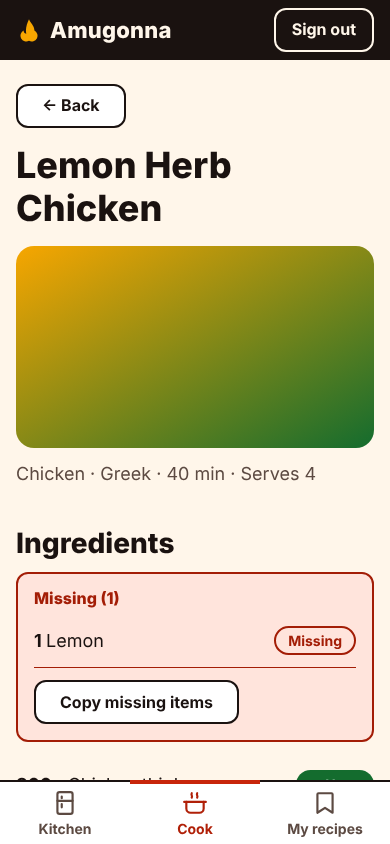
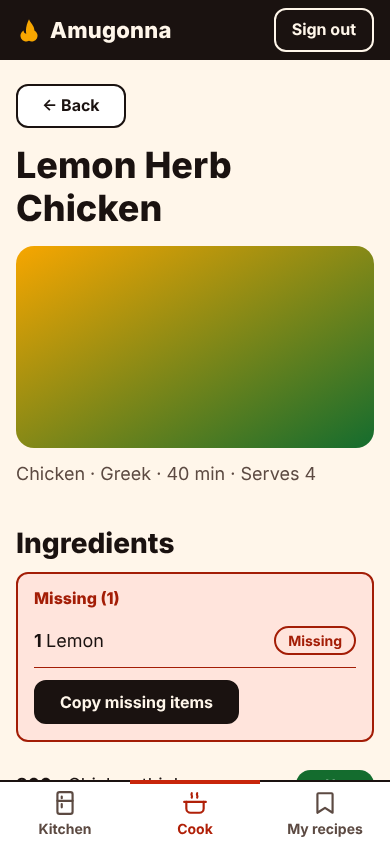
Cook: compact phone cards, scroll handling, wake lock re-acquire, inline copy confirmation

Changed region(s): [[0.0923, 0.8009, 0.6154, 0.8626]]

diff --git a/client/src/components/cook/RecipeView.tsx b/client/src/components/cook/RecipeView.tsx
@@ -44,7 +44,7 @@ const RecipeView: React.FC<Props> = ({ recipeId, onBack }) => {
   const [error, setError] = useState<string | null>(null);
   const [attempt, setAttempt] = useState(0);
   const [done, setDone] = useState<Set<number>>(new Set());
-  const [toast, setToast] = useState<string | null>(null);
+  const [copyLabel, setCopyLabel] = useState<string | null>(null);
 
   useEffect(() => {
     let cancelled = false;
@@ -60,29 +60,37 @@ const RecipeView: React.FC<Props> = ({ recipeId, onBack }) => {
   }, [recipeId, attempt]);
 
   // Keep the screen awake while cooking; silently skip when unsupported.
+  // Browsers drop the lock when the tab is hidden, so re-acquire on return.
   useEffect(() => {
     let sentinel: WakeLockSentinelLike | null = null;
     let closed = false;
     const wl = (navigator as NavWithWakeLock).wakeLock;
-    if (wl) {
+    if (!wl) return;
+    const acquire = () => {
       wl.request('screen')
         .then((s) => {
           if (closed) void s.release();
           else sentinel = s;
         })
         .catch(() => {});
-    }
+    };
+    const onVisible = () => {
+      if (document.visibilityState === 'visible' && !closed) acquire();
+    };
+    acquire();
+    document.addEventListener('visibilitychange', onVisible);
     return () => {
       closed = true;
-      if (sentinel) void sentinel.release().catch(() => {});
+      document.removeEventListener('visibilitychange', onVisible);
+      if (sentinel) void Promise.resolve(sentinel.release()).catch(() => {});
     };
   }, []);
 
   useEffect(() => {
-    if (!toast) return;
-    const t = setTimeout(() => setToast(null), 2000);
+    if (!copyLabel) return;
+    const t = setTimeout(() => setCopyLabel(null), 2000);
     return () => clearTimeout(t);
-  }, [toast]);
+  }, [copyLabel]);
 
   const back = (
     <button type="button" className="btn btn-secondary cook-back" onClick={onBack}>
@@ -134,9 +142,9 @@ const RecipeView: React.FC<Props> = ({ recipeId, onBack }) => {
   const copyMissing = async () => {
     try {
       await navigator.clipboard.writeText(missing.map((m) => m.name).join('\n'));
-      setToast('Copied');
+      setCopyLabel('Copied ✓');
     } catch {
-      setToast("Couldn't copy");
+      setCopyLabel("Couldn't copy");
     }
   };
 
@@ -174,8 +182,8 @@ const RecipeView: React.FC<Props> = ({ recipeId, onBack }) => {
                   <IngredientRow key={i.canonical + i.name} ing={i} />
                 ))}
               </ul>
-              <button type="button" className="btn btn-secondary" onClick={copyMissing}>
-                Copy missing items
+              <button type="button" className="btn btn-secondary" onClick={copyMissing} aria-live="polite">
+                {copyLabel ?? 'Copy missing items'}
               </button>
             </div>
           )}
@@ -217,11 +225,6 @@ const RecipeView: React.FC<Props> = ({ recipeId, onBack }) => {
             source
           )}
         </p>
-      )}
-      {toast && (
-        <div className="cook-toast" role="status">
-          {toast}
-        </div>
       )}
     </article>
   );

diff --git a/client/src/components/cook/CookScreen.test.tsx b/client/src/components/cook/CookScreen.test.tsx
@@ -85,6 +85,7 @@ describe('CookScreen results', () => {
     expect(await screen.findByRole('heading', { name: 'Cook now (2)' })).toBeInTheDocument();
     expect(screen.getByRole('heading', { name: '1 ingredient away (2)' })).toBeInTheDocument();
     expect(screen.getByText('Need: lemon')).toBeInTheDocument();
+    expect(screen.getAllByText('uses 5 of your items').length).toBeGreaterThan(0);
     expect(screen.getByText('using cheddar for parmesan')).toBeInTheDocument();
     expect(screen.getByRole('button', { name: /2 ingredients away \(1\)/ })).toHaveAttribute('aria-expanded', 'false');
   });
@@ -163,7 +164,7 @@ describe('Cook view', () => {
     Object.defineProperty(navigator, 'clipboard', { value: { writeText }, configurable: true });
     await userEvent.click(screen.getByRole('button', { name: 'Copy missing items' }));
     expect(writeText).toHaveBeenCalledWith('lemon\nbasil');
-    expect(await screen.findByText('Copied')).toBeInTheDocument();
+    expect(await screen.findByText('Copied ✓')).toBeInTheDocument();
   });
 
   it('Back returns to results', async () => {
@@ -193,6 +194,33 @@ describe('Cook view', () => {
     } finally {
       Reflect.deleteProperty(navigator, 'wakeLock');
     }
+  });
+
+  it('re-acquires the wake lock when the tab becomes visible again', async () => {
+    mockFetch();
+    const request = vi.fn().mockResolvedValue({ release: vi.fn().mockResolvedValue(undefined) });
+    Object.defineProperty(navigator, 'wakeLock', { value: { request }, configurable: true });
+    try {
+      await openLemon();
+      await waitFor(() => expect(request).toHaveBeenCalledTimes(1));
+      document.dispatchEvent(new Event('visibilitychange'));
+      await waitFor(() => expect(request).toHaveBeenCalledTimes(2));
+    } finally {
+      Reflect.deleteProperty(navigator, 'wakeLock');
+    }
+  });
+
+  it('scrolls to top on open and restores scroll on back', async () => {
+    mockFetch();
+    const scrollTo = vi.fn();
+    vi.stubGlobal('scrollTo', scrollTo);
+    Object.defineProperty(window, 'scrollY', { value: 420, configurable: true });
+    await openLemon();
+    expect(scrollTo).toHaveBeenCalledWith(0, 0);
+    await userEvent.click(screen.getByRole('button', { name: /Back/ }));
+    await screen.findByRole('heading', { name: 'Cook now (2)' });
+    expect(scrollTo).toHaveBeenLastCalledWith(0, 420);
+    Reflect.deleteProperty(window, 'scrollY');
   });
 
   it('works without wake lock support', async () => {

diff --git a/client/src/components/cook/CookScreen.tsx b/client/src/components/cook/CookScreen.tsx
@@ -1,4 +1,4 @@
-import React, { useCallback, useEffect, useState } from 'react';
+import React, { useCallback, useEffect, useLayoutEffect, useRef, useState } from 'react';
 import { cookApi } from '../../services/cookApi';
 import type { RecipeMatch, Suggestions } from '../../types/cook';
 import type { TabId } from '../shell/tabs';
@@ -27,6 +27,7 @@ const RecipeCard: React.FC<{ recipe: RecipeMatch; onOpen: (id: number) => void }
       <span className="cook-card-body">
         <span className="cook-card-title">{recipe.title}</span>
         {meta(recipe) && <span className="cook-card-meta">{meta(recipe)}</span>}
+        {recipe.usedCount > 0 && <span className="cook-card-uses">uses {recipe.usedCount} of your items</span>}
         {recipe.missing.length > 0 && (
           <span className="cook-card-need">Need: {recipe.missing.map((m) => m.name).join(', ')}</span>
         )}
@@ -76,10 +77,22 @@ const CookScreen: React.FC<Props> = ({ onNavigate }) => {
 
   useEffect(load, [load]);
 
+  const savedScroll = useRef<number | null>(null);
+
   const open = useCallback((id: number) => {
+    savedScroll.current = window.scrollY;
     window.history.pushState({ cookRecipe: id }, '');
     setOpenId(id);
+    window.scrollTo(0, 0);
   }, []);
+
+  // Back to results: restore where the list was.
+  useLayoutEffect(() => {
+    if (openId === null && savedScroll.current !== null) {
+      window.scrollTo(0, savedScroll.current);
+      savedScroll.current = null;
+    }
+  }, [openId]);
 
   useEffect(() => {
     const onPop = () => setOpenId(null);

diff --git a/client/src/components/cook/Cook.css b/client/src/components/cook/Cook.css
@@ -94,10 +94,17 @@
 .cook-step-done::before { background: var(--color-have); color: var(--color-on-have); content: "✓"; }
 
 .cook-source { margin-top: var(--space-5); color: var(--color-ink-muted); font-size: var(--text-sm); }
-.cook-toast {
-  position: fixed; left: 50%; transform: translateX(-50%);
-  bottom: calc(var(--tabbar-h) + env(safe-area-inset-bottom) + var(--space-4));
-  background: var(--color-ink); color: var(--color-bg);
-  padding: var(--space-3) var(--space-5); border-radius: var(--radius-pill);
-  font-weight: 700; box-shadow: var(--shadow-2); z-index: 20;
+
+.cook-card-uses { color: var(--color-have); font-size: var(--text-sm); font-weight: 600; }
+
+/* Phones: compact horizontal cards so a screenful of recipes is visible */
+@media (max-width: 599px) {
+  .cook-grid { gap: var(--space-3); }
+  .cook-card { flex-direction: row; align-items: stretch; }
+  .cook-card-media { aspect-ratio: auto; width: 96px; min-height: 96px; flex-shrink: 0; }
+  .cook-card-placeholder { font-size: var(--text-2xl); }
+  .cook-card-body { padding: var(--space-3); min-width: 0; gap: 2px; }
+  .cook-card-title { font-size: var(--text-base); }
+  .cook-card-need { font-size: var(--text-base); }
+  .cook-skeleton-card .cook-card-media { height: 96px; }
 }
